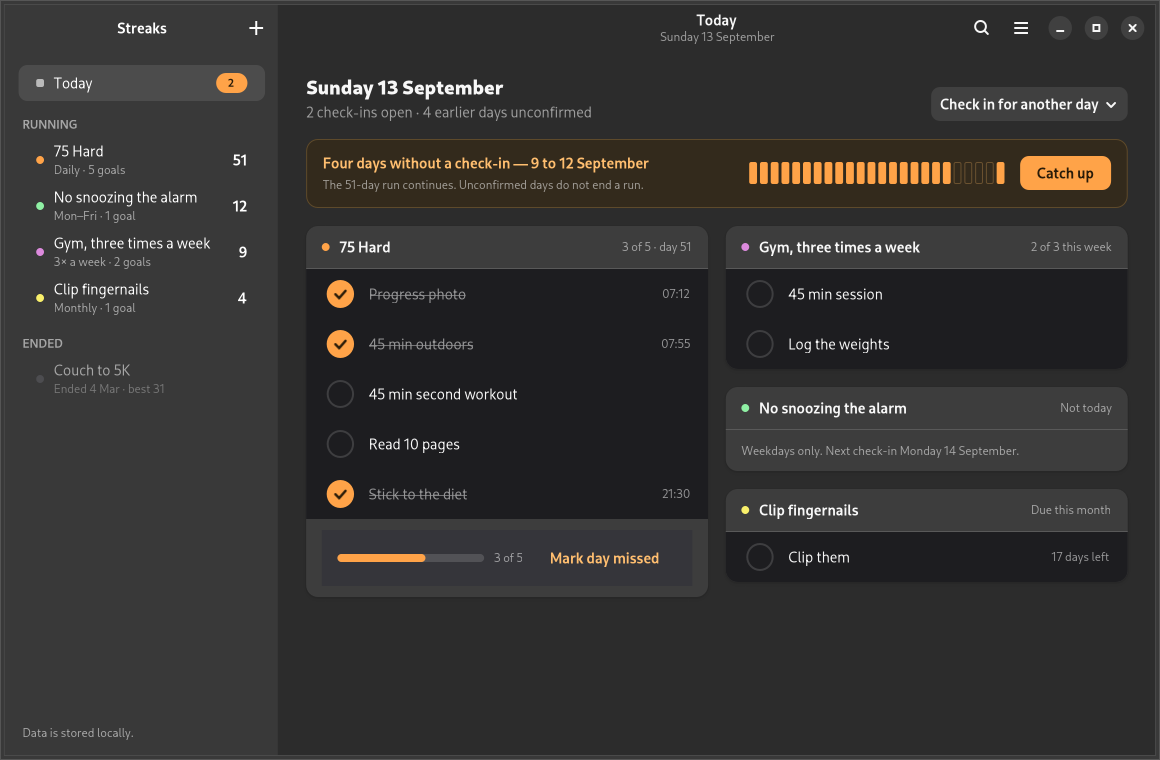
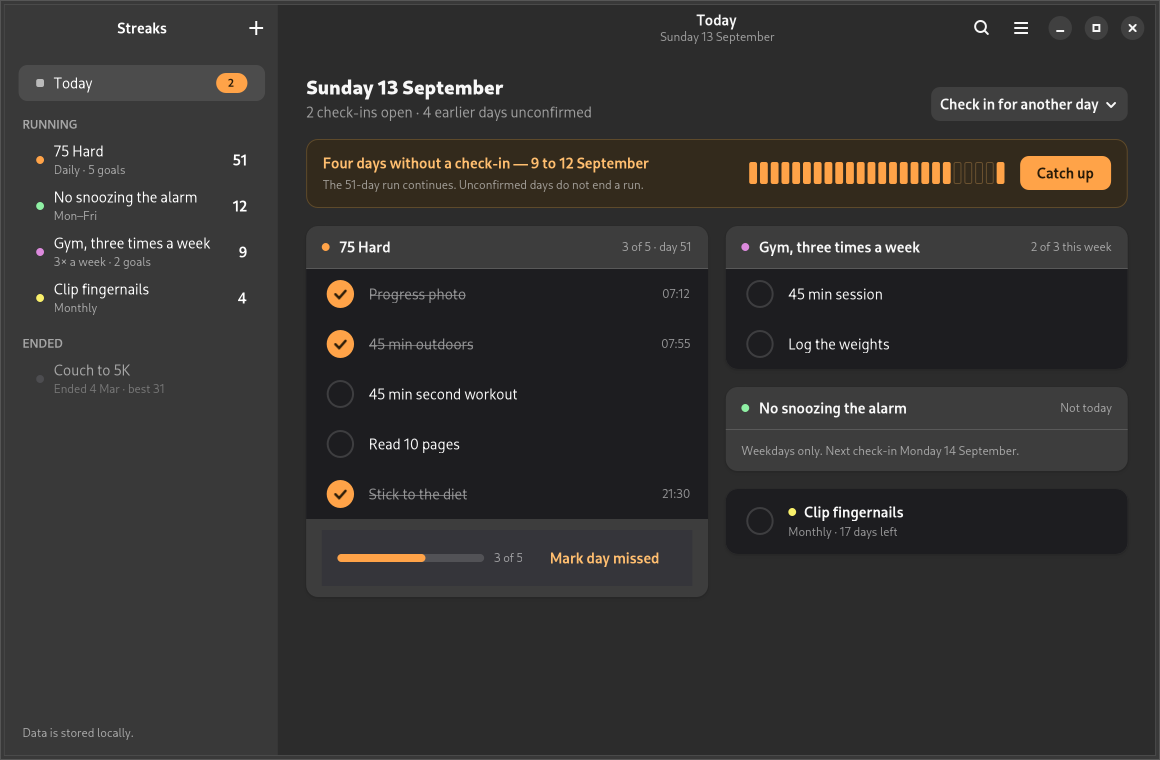
docs: regenerate goldens and screenshots for one-goal streaks
Rewrites the new-streak screen to the single-goal default (name
"Floss", Daily, reminder 21:30) and adds new-streak-goals,
edit-streak and edit-streak-goals, each sized to its natural content
height at width 560. Regenerates every light/dark golden and copies
them into docs/screenshots, since earlier one-goal-streak tasks
already changed the sidebar, Today and streak-history renders that
snapshots covers.

Claude-Session: https://claude.ai/code/session_01E3ZsuDxh1CFj2f3WiNXimo

Changed region(s): [[0.6207, 0.6355, 0.9931, 0.7566], [0.0931, 0.3934, 0.1241, 0.4237], [0.0931, 0.2724, 0.1241, 0.3026]]

diff --git a/tests/gui/screens.py b/tests/gui/screens.py
@@ -87,23 +87,72 @@ def _build_new_streak(ctx: BuildContext) -> Gtk.Widget:
 
     dialog = StreaksStreakDialog.for_new()
     dialog.set_state(window.state)
+    dialog.name_row.set_text("Floss")
+    dialog.reminder_switch.set_active(True)
+    dialog.hour_spin.set_value(21)
+    dialog.minute_spin.set_value(30)
 
-    # The design fixture's five goals (design-spec §6). Task 6 rewrites this screen for the
-    # single/multi mode split; for now, just expand to multi mode to keep the goal rows around.
-    dialog._expand_to_multi()
-    goal_texts = [
-        "Take a progress photo",
-        "45 min workout — outside",
-        "45 min second workout",
-        "Read 10 pages",
-        "Stick to the diet",
-    ]
-    dialog._goal_rows[0].entry.set_text(goal_texts[0])
-    dialog._goal_rows[1].entry.set_text(goal_texts[1])
-    for text in goal_texts[2:]:
-        row = dialog._add_goal_row_widget()
-        row.entry.set_text(text)
-    dialog.name_row.set_text("75 Hard")
+    dialog.present(window)
+    process_events()
+
+    return _detach_dialog_content(dialog)
+
+
+def _build_new_streak_goals(ctx: BuildContext) -> Gtk.Widget:
+    from streaks.streak_dialog import StreaksStreakDialog
+
+    window = StreaksWindow(application=ctx.app)
+    ctx.window = window
+    window.present()
+    process_events()
+
+    dialog = StreaksStreakDialog.for_new()
+    dialog.set_state(window.state)
+    dialog.name_row.set_text("Floss")
+    dialog.more_goals_button.emit("clicked")
+    dialog.name_row.set_text("Evening routine")
+    dialog.reminder_switch.set_active(True)
+    dialog.hour_spin.set_value(21)
+    dialog.minute_spin.set_value(30)
+
+    dialog.present(window)
+    process_events()
+
+    return _detach_dialog_content(dialog)
+
+
+def _build_edit_streak(ctx: BuildContext) -> Gtk.Widget:
+    from streaks.streak_dialog import StreaksStreakDialog
+
+    window = StreaksWindow(application=ctx.app)
+    ctx.window = window
+    window.present()
+    process_events()
+
+    streak = next(s for s in window.state.streaks if s.name == "Clip fingernails")
+    dialog = StreaksStreakDialog.for_edit(streak)
+    dialog.set_state(window.state)
+
+    dialog.present(window)
+    process_events()
+
+    return _detach_dialog_content(dialog)
+
+
+def _build_edit_streak_goals(ctx: BuildContext) -> Gtk.Widget:
+    from streaks.streak_dialog import StreaksStreakDialog
+
+    window = StreaksWindow(application=ctx.app)
+    ctx.window = window
+    window.present()
+    process_events()
+
+    streak = next(s for s in window.state.streaks if s.name == "Clip fingernails")
+    dialog = StreaksStreakDialog.for_edit(streak)
+    dialog.set_state(window.state)
+    dialog.more_goals_button.emit("clicked")
+    dialog._goal_rows[1].entry.set_text("Haircut")
+    dialog.name_row.set_text("Grooming")
 
     dialog.present(window)
     process_events()
@@ -231,7 +280,14 @@ SCREENS: dict[str, Screen] = {
     "sidebar": Screen(name="sidebar", width=1160, height=760, build=_build_window),
     "today": Screen(name="today", width=1160, height=760, build=_build_today),
     "today-quiet": Screen(name="today-quiet", width=1160, height=760, build=_build_today_quiet),
-    "new-streak": Screen(name="new-streak", width=560, height=900, build=_build_new_streak),
+    "new-streak": Screen(name="new-streak", width=560, height=519, build=_build_new_streak),
+    "new-streak-goals": Screen(
+        name="new-streak-goals", width=560, height=714, build=_build_new_streak_goals
+    ),
+    "edit-streak": Screen(name="edit-streak", width=560, height=587, build=_build_edit_streak),
+    "edit-streak-goals": Screen(
+        name="edit-streak-goals", width=560, height=803, build=_build_edit_streak_goals
+    ),
     "streak": Screen(name="streak", width=1160, height=760, build=_build_streak),
     "streak-lifetime": Screen(
         name="streak-lifetime", width=1160, height=760, build=_build_streak_lifetime

diff --git a/README.md b/README.md
@@ -12,8 +12,9 @@ Everything stays on the machine — there is no account, no network access, and 
 | | |
 |---|---|
 | ![Today](docs/screenshots/today.png) Today — check-in cards, quiet-days banner | ![Sidebar](docs/screenshots/sidebar.png) Sidebar — running/ended streaks |
-| ![Streak history](docs/screenshots/streak.png) Streak history — stats, heatmap, per-goal bars | ![New streak](docs/screenshots/new-streak.png) New/Edit streak dialog |
-| ![Catch up](docs/screenshots/catch-up.png) Catch-up dialog | ![Preferences](docs/screenshots/preferences.png) Preferences |
+| ![Streak history](docs/screenshots/streak.png) Streak history — stats, heatmap, per-goal bars | ![New streak](docs/screenshots/new-streak.png) New/Edit streak dialog — single goal |
+| ![New streak, multi-goal](docs/screenshots/new-streak-goals.png) New/Edit streak dialog — "Add more goals" | ![Catch up](docs/screenshots/catch-up.png) Catch-up dialog |
+| ![Preferences](docs/screenshots/preferences.png) Preferences | ![Edit streak, multi-goal](docs/screenshots/edit-streak-goals.png) Editing a streak into a checklist |
 | ![Today, dark](docs/screenshots/dark/today.png) Dark scheme — amber accent | ![Streak history, dark](docs/screenshots/dark/streak.png) Dark scheme — amber chart scale |
 
 More: [`docs/screenshots/`](docs/screenshots/) (copied from the approved golden snapshots in
